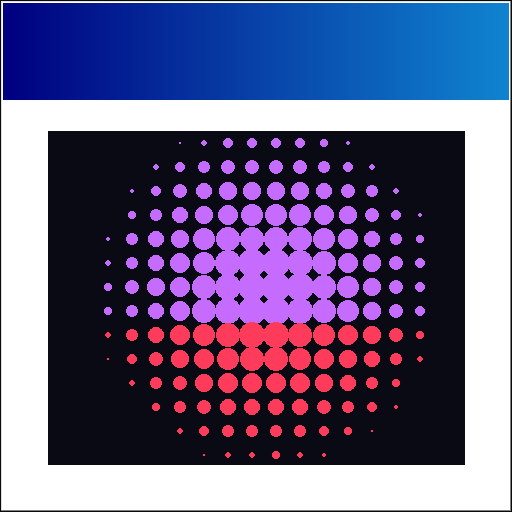
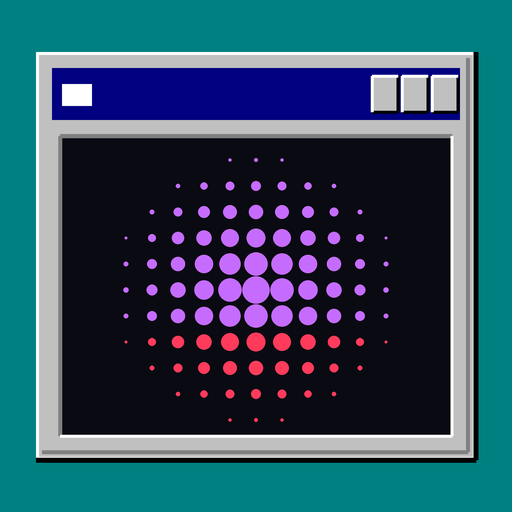
si/editoval: vzhľad Windows 95 (tyrkysová plocha, panel úloh so Štartom), Pipeta, oprava štýlu Pixel pri kresbe, nové ikony
Claude-Session: https://claude.ai/code/session_01E5N1aRXdAjbhvtAa1sCmhq

diff --git a/editoval/style.css b/editoval/style.css
@@ -1,15 +1,15 @@
-/* si/editoval 2 — Skicár z Windows 98, ale celý biely. Jediné farebné na stránke je obrázok.
-   Okná a tlačidlá majú klasické 3D hrany (svetlá hore vľavo, tieň dole vpravo). */
+/* si/editoval — Skicár ako z Windows 95: tyrkysová plocha, sivé okná, plná tmavomodrá lišta, panel úloh so Štartom.
+   Okná a tlačidlá majú klasické 3D hrany (svetlá hore vľavo, tieň dole vpravo). Obrázok je jediná biela vec v sivom okne. */
 :root{
   color-scheme:light;
-  --hi:#fff;--lt:#dfdfdf;--sh:#808080;--dk:#0a0a0a;--navy:#000080;
-  --ui:Tahoma,Verdana,"Segoe UI",Geneva,sans-serif;
-  --raised:inset -1px -1px var(--dk),inset 1px 1px var(--lt),inset -2px -2px var(--sh),inset 2px 2px var(--hi);
+  --face:#c0c0c0;--hi:#fff;--lt:#dfdfdf;--sh:#808080;--dk:#000;--navy:#000080;--teal:#008080;
+  --ui:"MS Sans Serif","Microsoft Sans Serif",Tahoma,Verdana,"Segoe UI",Geneva,sans-serif;
+  --raised:inset -1px -1px var(--dk),inset 1px 1px var(--hi),inset -2px -2px var(--sh),inset 2px 2px var(--lt);
   --sunken:inset -1px -1px var(--hi),inset 1px 1px var(--sh),inset -2px -2px var(--lt),inset 2px 2px var(--dk);
 }
 *{box-sizing:border-box}
 [hidden]{display:none!important}
-html,body{background:#fff}
+html,body{background:var(--teal)}
 body{margin:0;color:#000;font:13px/1.35 var(--ui);-webkit-text-size-adjust:100%;-webkit-tap-highlight-color:transparent}
 button,input,textarea,select,label{font:inherit;color:inherit}
 button{cursor:default}
@@ -17,22 +17,22 @@ a{color:var(--navy)}
 .vh{position:absolute;width:1px;height:1px;opacity:0;pointer-events:none}
 
 .desk{max-width:1200px;margin:0 auto;display:grid;gap:14px;
-  padding:calc(8px + env(safe-area-inset-top,0px)) max(8px,env(safe-area-inset-right,0px)) calc(18px + env(safe-area-inset-bottom,0px)) max(8px,env(safe-area-inset-left,0px))}
+  padding:calc(8px + env(safe-area-inset-top,0px)) max(8px,env(safe-area-inset-right,0px)) calc(54px + env(safe-area-inset-bottom,0px)) max(8px,env(safe-area-inset-left,0px))}
 
 /* okná */
-.win{background:#fff;box-shadow:var(--raised);padding:3px;min-width:0}
-.title{background:linear-gradient(90deg,#000080,#1084d0);color:#fff;font-weight:700;display:flex;align-items:center;justify-content:space-between;gap:8px;min-height:24px;padding:2px 3px 2px 5px;user-select:none;-webkit-user-select:none}
+.win{background:var(--face);box-shadow:var(--raised);padding:3px;min-width:0}
+.title{background:var(--navy);color:#fff;font-weight:700;display:flex;align-items:center;justify-content:space-between;gap:8px;min-height:24px;padding:2px 3px 2px 5px;user-select:none;-webkit-user-select:none}
 .title.sm{min-height:20px;font-size:12px}
 .ti{display:flex;align-items:center;gap:6px;min-width:0;white-space:nowrap;overflow:hidden;text-overflow:ellipsis}
 .ctl{display:flex;gap:2px;flex:none}
-.ctl span,.ctl button{width:18px;height:16px;background:#fff;box-shadow:var(--raised);display:grid;place-items:center;color:#000;font:700 11px/1 var(--ui);border:0;padding:0}
+.ctl span,.ctl button{width:18px;height:16px;background:var(--face);box-shadow:var(--raised);display:grid;place-items:center;color:#000;font:700 11px/1 var(--ui);border:0;padding:0}
 .ctl span+span:last-child{margin-left:2px}
 
 /* menu */
 .menubar{display:flex;padding:2px 0 1px}
 .menubar button{background:none;border:0;padding:5px 9px;min-height:30px}
 .menubar button:hover,.menubar button[aria-expanded="true"]{background:var(--navy);color:#fff}
-.menu{position:fixed;z-index:70;background:#fff;box-shadow:var(--raised),2px 2px 0 rgba(0,0,0,.35);padding:3px;min-width:230px}
+.menu{position:fixed;z-index:70;background:var(--face);box-shadow:var(--raised),2px 2px 0 rgba(0,0,0,.45);padding:3px;min-width:230px;max-width:calc(100vw - 8px);max-height:calc(100dvh - 56px);overflow:auto}
 .menu button{display:flex;justify-content:space-between;gap:24px;width:100%;text-align:left;background:none;border:0;padding:7px 10px 7px 24px;min-height:32px;position:relative}
 .menu button:hover,.menu button:focus-visible{background:var(--navy);color:#fff;outline:0}
 .menu button[aria-checked="true"]::before{content:"✓";position:absolute;left:8px}
@@ -40,18 +40,18 @@ a{color:var(--navy)}
 .menu hr{border:0;border-top:1px solid var(--sh);border-bottom:1px solid #fff;margin:3px 2px}
 
 /* nástroje */
-.toolbar{display:flex;gap:3px;padding:4px 2px;border-top:1px solid var(--lt)}
-.tool{flex:1 1 0;min-width:0;display:grid;justify-items:center;gap:2px;background:#fff;border:0;box-shadow:var(--raised);padding:6px 2px 5px;font-size:11px;user-select:none;-webkit-user-select:none}
+.toolbar{display:flex;gap:3px;padding:4px 2px;border-top:1px solid var(--sh);box-shadow:inset 0 1px #fff}
+.tool{flex:1 1 0;min-width:0;display:grid;justify-items:center;gap:2px;background:var(--face);border:0;box-shadow:var(--raised);padding:6px 2px 5px;font-size:11px;user-select:none;-webkit-user-select:none}
 .tool svg{width:26px;height:26px}
 .tool:active,.tool[aria-pressed="true"]{box-shadow:var(--sunken)}
-.tool[aria-pressed="true"]{background:repeating-conic-gradient(#fff 0 25%,#dcdcdc 0 50%) 0 0/2px 2px;font-weight:700}
+.tool[aria-pressed="true"]{background:repeating-conic-gradient(#fff 0 25%,var(--face) 0 50%) 0 0/2px 2px;font-weight:700}
 .tool:focus-visible,.btn:focus-visible,.fmt:focus-visible{outline:1px dotted #000;outline-offset:-5px}
 
 .formats{display:flex;gap:3px;overflow-x:auto;padding:2px 2px 6px;scrollbar-width:thin;-webkit-overflow-scrolling:touch}
-.fmt{flex:none;display:flex;align-items:center;gap:7px;background:#fff;border:0;box-shadow:var(--raised);padding:5px 10px 5px 8px;min-height:40px;text-align:left}
+.fmt{flex:none;display:flex;align-items:center;gap:7px;background:var(--face);border:0;box-shadow:var(--raised);padding:5px 10px 5px 8px;min-height:40px;text-align:left}
 .fmt i{display:block;border:1.5px solid #000;background:#fff;flex:none}
 .fmt b{display:block;font-size:12.5px}
-.fmt small{display:block;font-size:10.5px;color:#444;white-space:nowrap}
+.fmt small{display:block;font-size:10.5px;color:#303030;white-space:nowrap}
 .fmt[aria-checked="true"]{box-shadow:var(--sunken)}
 .fmt[aria-checked="true"] i{background:var(--navy)}
 
@@ -59,8 +59,9 @@ a{color:var(--navy)}
 .work{display:grid;gap:10px;align-items:start}
 @media (min-width:900px){.work{grid-template-columns:minmax(0,1fr) 360px}}
 .left{display:grid;gap:6px;min-width:0}
-.area{box-shadow:var(--sunken);background:#fff;padding:20px 18px 22px;display:grid;place-items:center;min-height:280px;overflow:hidden}
-.paper{position:relative;line-height:0;box-shadow:5px 5px 0 #000;outline:1px solid #000}
+.area{box-shadow:var(--sunken);background:var(--sh);padding:20px 18px 22px;display:grid;place-items:center;min-height:280px;overflow:hidden}
+.paper{position:relative;line-height:0;box-shadow:3px 3px 0 rgba(0,0,0,.45);outline:1px solid #000}
+.paper.pick #ov{cursor:crosshair}
 .paper #cv{display:block;max-width:100%;width:auto;height:auto;max-height:min(66vh,760px)}
 @media (min-width:900px){.paper #cv{max-height:calc(100vh - 290px)}}
 .paper #ov{position:absolute;inset:0;width:100%;height:100%;touch-action:none;cursor:move}
@@ -70,7 +71,7 @@ a{color:var(--navy)}
 
 /* paleta ako v Skicári */
 .palette{display:flex;gap:6px;align-items:center;padding:2px}
-.cur{width:38px;height:38px;flex:none;box-shadow:var(--sunken);padding:6px;background:#fff}
+.cur{width:38px;height:38px;flex:none;box-shadow:var(--sunken);padding:6px;background:var(--face)}
 .cur i{display:block;width:100%;height:100%;border:1px solid #000}
 .cells{flex:1;min-width:0;display:grid;grid-template-columns:repeat(14,minmax(0,1fr));gap:2px}
 .cells button{aspect-ratio:1;min-width:0;border:0;padding:0;box-shadow:var(--sunken)}
@@ -88,13 +89,13 @@ a{color:var(--navy)}
 .layers li input{flex:none}
 .lbtns{display:grid;grid-template-columns:repeat(4,1fr);gap:3px;margin-top:6px}
 
-.btn{background:#fff;border:0;box-shadow:var(--raised);min-height:34px;padding:3px 10px;font-size:12px;user-select:none;-webkit-user-select:none}
+.btn{background:var(--face);border:0;box-shadow:var(--raised);min-height:34px;padding:3px 10px;font-size:12px;user-select:none;-webkit-user-select:none}
 .btn:active,.btn[aria-pressed="true"]{box-shadow:var(--sunken)}
-.btn[aria-pressed="true"]{font-weight:700;background:repeating-conic-gradient(#fff 0 25%,#e4e4e4 0 50%) 0 0/2px 2px}
+.btn[aria-pressed="true"]{font-weight:700;background:repeating-conic-gradient(#fff 0 25%,var(--face) 0 50%) 0 0/2px 2px}
 .btn:disabled{color:var(--sh);text-shadow:1px 1px #fff}
 .btn.pri{box-shadow:var(--raised),0 0 0 1px #000;font-weight:700}
 
-fieldset.grp{border:1px solid var(--sh);box-shadow:inset 1px 1px #fff,1px 1px #fff;margin:6px 0 10px;padding:8px 8px 6px;min-width:0}
+fieldset.grp{border:1px solid var(--sh);box-shadow:inset 1px 1px #fff,1px 1px #fff;border-radius:0;margin:6px 0 10px;padding:8px 8px 6px;min-width:0}
 fieldset.grp legend{padding:0 4px}
 .row{display:grid;grid-template-columns:minmax(0,1fr) auto;gap:0 8px;align-items:center;margin:4px 0 6px}
 .row>label,.row>.lbl{min-width:0}
@@ -104,10 +105,10 @@ fieldset.grp legend{padding:0 4px}
 .chips .btn{min-height:32px;padding:3px 9px}
 .sw{display:inline-flex;height:14px;border:1px solid #000;vertical-align:-2px;margin-right:5px}
 .sw b{display:block;width:9px;height:100%}
-.hint{margin:4px 0 6px;color:#333;font-size:12px}
+.hint{margin:4px 0 6px;color:#202020;font-size:12px}
 .colors{display:flex;gap:10px;flex-wrap:wrap;margin-top:4px}
 .colors label{display:inline-flex;align-items:center;gap:5px;font-size:12px}
-.colors input{width:36px;height:30px;border:0;padding:2px;box-shadow:var(--sunken);background:#fff}
+.colors input{width:36px;height:30px;border:0;padding:2px;box-shadow:var(--sunken);background:var(--face)}
 
 textarea,input[type=text]{width:100%;border:0;box-shadow:var(--sunken);background:#fff;padding:7px 8px;font-size:16px;border-radius:0;-webkit-appearance:none;appearance:none}
 textarea{resize:vertical;min-height:60px}
@@ -118,16 +119,16 @@ textarea:focus,input[type=text]:focus{outline:1px dotted #000;outline-offset:-4p
 .fonts .btn span{font-size:21px;line-height:1.05;white-space:nowrap}
 .fonts .btn small{font:10px var(--ui);white-space:nowrap}
 
-/* posuvník Win98 */
+/* posuvník */
 input[type=range]{-webkit-appearance:none;appearance:none;width:100%;height:30px;margin:0;background:transparent}
 input[type=range]::-webkit-slider-runnable-track{height:4px;background:#fff;box-shadow:var(--sunken)}
-input[type=range]::-webkit-slider-thumb{-webkit-appearance:none;width:13px;height:24px;margin-top:-10px;background:#fff;box-shadow:var(--raised);border:0;border-radius:0}
+input[type=range]::-webkit-slider-thumb{-webkit-appearance:none;width:13px;height:24px;margin-top:-10px;background:var(--face);box-shadow:var(--raised);border:0;border-radius:0}
 input[type=range]::-moz-range-track{height:4px;background:#fff;box-shadow:var(--sunken)}
-input[type=range]::-moz-range-thumb{width:13px;height:24px;background:#fff;box-shadow:var(--raised);border:0;border-radius:0}
+input[type=range]::-moz-range-thumb{width:13px;height:24px;background:var(--face);box-shadow:var(--raised);border:0;border-radius:0}
 input[type=range]:focus{outline:0}
 input[type=range]:focus-visible::-webkit-slider-thumb{outline:1px dotted #000;outline-offset:-4px}
 
-/* zaškrtávacie políčko Win98 */
+/* zaškrtávacie políčko */
 input[type=checkbox]{-webkit-appearance:none;appearance:none;width:15px;height:15px;margin:0;background:#fff;box-shadow:var(--sunken);display:inline-grid;place-items:center;flex:none}
 input[type=checkbox]:checked::after{content:"";width:7px;height:4px;border-left:2px solid #000;border-bottom:2px solid #000;transform:translateY(-1px) rotate(-45deg)}
 .layers li.on input[type=checkbox]{outline:1px solid #fff}
@@ -145,18 +146,20 @@ input[type=checkbox]:checked::after{content:"";width:7px;height:4px;border-left:
 .big{font-size:14px;margin-bottom:6px!important}
 .stars{color:#e8232a;letter-spacing:.45em;font-size:13px;margin:6px 0}
 .cr{display:grid;margin:8px 0!important;text-transform:lowercase}
-.cr span{font-size:10.5px;letter-spacing:.12em;color:#555}
+.cr span{font-size:10.5px;letter-spacing:.12em;color:#404040}
 .cr a{font:800 19px/1.2 Syne,var(--ui);color:#000;text-decoration:none}
 .cr em{font:700 12px/1 "JetBrains Mono",monospace;font-style:normal;color:#e8232a}
-.cr small{color:#555;font-size:12px}
+.cr small{color:#404040;font-size:12px}
 .about hr{border:0;border-top:1px solid var(--sh);border-bottom:1px solid #fff;margin:10px 0}
 .lic{font-size:12px}
-.note{font-size:12px;color:#555;margin-top:8px!important}
-.foot{text-align:center;font-size:12px;margin:0;color:#555}
+.note{font-size:12px;color:#303030;margin-top:8px!important}
+.about .title{background:var(--sh);color:var(--face)}
+.foot{text-align:center;font-size:12px;margin:0;color:#fff}
+.foot a{color:#fff}
 
 /* dialóg */
-.modal{position:fixed;inset:0;z-index:80;display:grid;place-items:center;padding:16px;background:rgba(255,255,255,.6)}
-.dlg{width:min(480px,100%);max-height:calc(100dvh - 32px);display:grid;grid-template-rows:auto minmax(0,1fr) auto;box-shadow:var(--raised),3px 3px 0 rgba(0,0,0,.4)}
+.modal{position:fixed;inset:0;z-index:80;display:grid;place-items:center;padding:16px;padding-bottom:56px;background:rgba(0,0,0,.28)}
+.dlg{width:min(480px,100%);max-height:calc(100dvh - 80px);display:grid;grid-template-rows:auto minmax(0,1fr) auto;box-shadow:var(--raised),3px 3px 0 rgba(0,0,0,.4)}
 .dbody{padding:12px;overflow:auto;min-height:0}
 .dbody img.res{display:block;max-width:100%;max-height:52vh;margin:0 auto 10px;box-shadow:4px 4px 0 #000;outline:1px solid #000;background:repeating-conic-gradient(#fff 0 25%,#e6e6e6 0 50%) 0 0/16px 16px}
 .dbody p{margin:6px 0}
@@ -176,3 +179,13 @@ body.wait,body.wait *{cursor:wait!important}
 .bgrid{display:grid;grid-template-columns:repeat(4,1fr);gap:4px;margin:8px 0}
 .bgrid img{width:100%;aspect-ratio:1;object-fit:cover;border:1px solid var(--sh);display:block}
 @media (max-width:520px){.bgrid{grid-template-columns:repeat(3,1fr)}}
+
+/* panel úloh ako v Windows 95 */
+.taskbar{position:fixed;left:0;right:0;bottom:0;z-index:60;display:flex;align-items:center;gap:4px;background:var(--face);box-shadow:inset 0 1px var(--lt),inset 0 2px var(--hi);padding:4px 4px calc(3px + env(safe-area-inset-bottom,0px));min-height:calc(38px + env(safe-area-inset-bottom,0px))}
+.start{display:flex;align-items:center;gap:6px;background:var(--face);border:0;box-shadow:var(--raised);padding:3px 10px 3px 7px;min-height:30px;font-weight:700;user-select:none;-webkit-user-select:none}
+.start svg{width:20px;height:18px}
+.start:active,.start[aria-expanded="true"]{box-shadow:var(--sunken)}
+.tsep{width:2px;align-self:stretch;margin:2px 1px;box-shadow:inset 1px 0 var(--sh),inset -1px 0 #fff}
+.task{flex:1;min-width:0;max-width:240px;display:flex;align-items:center;gap:6px;min-height:30px;padding:3px 8px;box-shadow:var(--sunken);background:repeating-conic-gradient(#fff 0 25%,var(--face) 0 50%) 0 0/2px 2px;font-weight:700;white-space:nowrap;overflow:hidden;text-overflow:ellipsis}
+.tray{margin-left:auto;box-shadow:inset 1px 1px var(--sh),inset -1px -1px #fff;padding:6px 10px;font-size:12px;white-space:nowrap}
+@media (max-width:420px){.task{display:none}}

diff --git a/editoval/app.js b/editoval/app.js
@@ -668,7 +668,9 @@ function sizeOf(L){return L.type==='image'?L.s:L.size;}
 function setSize(L,v){if(L.type==='image'){L.s=clamp(v,.03,6);L.fit=null;}else L.size=clamp(v,6,900);}
 function mirrors(q){var o=[q],s=selLayer().sym;if(s==='v'||s==='vh')o.push([1-q[0],q[1]]);if(s==='h'||s==='vh')o.push([q[0],1-q[1]]);if(s==='vh')o.push([1-q[0],1-q[1]]);return o;}
 ov.addEventListener('pointerdown',function(e){
-  e.preventDefault();closeMenu();try{ov.setPointerCapture(e.pointerId);}catch(x){}
+  e.preventDefault();closeMenu();
+  if(S.pick){pickAt(ptr(e));return;}
+  try{ov.setPointerCapture(e.pointerId);}catch(x){}
   var p=ptr(e);PT[e.pointerId]=p;var ids=Object.keys(PT),L=selLayer();
   if(ids.length===2&&L&&L.type!=='draw'&&(!G||G.t!=='draw')){var a=PT[ids[0]],b=PT[ids[1]];
     G={t:'pinch',L:L,d0:Math.hypot(a.x-b.x,a.y-b.y)||1,a0:Math.atan2(b.y-a.y,b.x-a.x),s0:sizeOf(L),r0:L.r,x0:L.x,y0:L.y,m0:{x:(a.x+b.x)/2,y:(a.y+b.y)/2}};S.gesture=true;return;}
@@ -693,6 +695,15 @@ ov.addEventListener('pointermove',function(e){
     var ms=mirrors([p.x/W,p.y/H]);G.st.forEach(function(st,i){ms[i].push(Math.round(G.w*100)/100);st.pts.push(ms[i]);});liveStroke();return;}
   dirty();
 });
+/* pipeta: farba z miesta, kam klikneš, sa použije ako aktuálna farba */
+function pickAt(p){
+  S.pick=false;toolState();
+  var x=clamp(Math.round(p.x),0,cv.width-1),y=clamp(Math.round(p.y),0,cv.height-1),d=cx.getImageData(x,y,1,1).data;
+  if(d[3]<8){msg('Tu je priehľadno, farba sa nedá vybrať.');return;}
+  var h='#'+[d[0],d[1],d[2]].map(function(v){return ('0'+v.toString(16)).slice(-2);}).join('');
+  applyColor(h);msg('Pipeta vybrala farbu '+h+'.');
+}
+$('#tPick').onclick=function(){S.pick=!S.pick;if(S.pick&&S.tool==='brush'){S.tool='move';}toolState();status();if(S.pick)msg('Pipeta: klikni na obrázok, odkiaľ chceš farbu.');};
 function snapR(r){r=((r+180)%360+360)%360-180;for(var a=-180;a<=180;a+=45)if(Math.abs(r-a)<3)return a===-180?180:a;return Math.round(r*10)/10;}
 function endPtr(e){
   delete PT[e.pointerId];if(!G)return;
@@ -729,7 +740,7 @@ function addText(){
   var ta=$('#props textarea');if(ta){ta.focus();ta.select();}
 }
 function brushLayer(){
-  var L=selLayer();
+  S.pick=false;var L=selLayer();
   if(S.tool==='brush'){S.tool='move';select('bg');return;}
   if(!L||L.type!=='draw'){L=null;for(var i=D.layers.length-1;i>=0;i--)if(D.layers[i].type==='draw'){L=D.layers[i];break;}}
   if(!L){var hasImg=D.layers.some(function(l){return l.type==='image'&&!l.hidden;});
@@ -745,7 +756,7 @@ function moveLayer(dir){var L=selLayer();if(!L)return;var i=D.layers.indexOf(L),
 function dupLayer(){var L=selLayer();if(!L)return;var c=JSON.parse(JSON.stringify(L,function(k,v){return k.charAt(0)==='_'?undefined:v;}));c.id=nid();c.sample=false;c.name=L.name+' (kópia)';if(c.x!=null){c.x+=.03;c.y+=.03;}D.layers.splice(D.layers.indexOf(L)+1,0,c);select(c.id);commit();}
 function delLayer(){var L=selLayer();if(!L)return;D.layers.splice(D.layers.indexOf(L),1);select('bg');commit();msg('Vrstva zmazaná. Späť ju vráti.');}
 function layerName(L){
-  if(L.type==='text')return '„'+(String(L.text).replace(/\n/g,' ').slice(0,22)||' ')+'“'+(L.style!=='plain'?' · '+STYLEN[L.style]:'');
+  if(L.type==='text'){var tx=String(L.text).replace(/\n/g,' ').trim();if(tx.length>22)tx=tx.slice(0,21).trim()+'…';return '„'+(tx||' ')+'“'+(L.style!=='plain'?' · '+STYLEN[L.style]:'');}
   if(L.type==='draw')return (L.name||'Kresba')+' · '+(L.mode==='relief'?'reliéf':'farba');
   return L.name+(L.fx!=='none'?' · '+FXN[L.fx]:'');
 }
@@ -963,12 +974,12 @@ var STYLES=[
   {id:'chrome',n:'Chróm v tme',bg:{kind:'navy'},fin:{grain:48,gsize:1.2,gcol:true},rp:{mat:'chrome',evol:92,eslope:32,eshine:92,erough:10,egoo:40,idrip:35,edeb:false,ionly:true}},
   {id:'sand',n:'Vyryté do piesku',bg:{kind:'sand'},fin:{grain:30,gsize:1,scr:30,dust:25,scol:'dark'},rp:{mat:'sand',evol:100,eslope:14,eshine:55,erough:20,egoo:5,idrip:0,edeb:true,ionly:true}},
   {id:'paper',n:'Papier a modrá farba',bg:{kind:'cream'},fin:{grain:14,gsize:1},rp:{mat:'paper',evol:62,eslope:55,eshine:25,erough:6,egoo:35,idrip:25,edeb:false,ionly:true},draw:{mode:'paint',color:'#3f7fe8',liquid:90}},
-  {id:'pixel',n:'Pixel a prach',bg:{kind:'color',color:'#ece5cf'},fin:{dis:26,dmode:'edges',dsz:7,dcol:'#1a1710',scr:38,dust:30,scol:'dark'},img:{fx:'dither',p:{dstyle:'pixel',dscale:6,pal:'cream',dthr:0}},txt:{style:'plain',color:'#15120e'}},
+  {id:'pixel',n:'Pixel a prach',bg:{kind:'color',color:'#ece5cf'},fin:{dis:26,dmode:'edges',dsz:7,dcol:'#1a1710',scr:38,dust:30,scol:'dark'},img:{fx:'dither',p:{dstyle:'pixel',dscale:6,pal:'cream',dthr:0}},txt:{style:'plain',color:'#15120e'},draw:{mode:'paint',color:'#15120e',liquid:35}},
   {id:'gold',n:'Zlatá platňa so skrutkami',bg:{kind:'gold'},fin:{riv:'4',rsz:22,dis:38,dmode:'tl',dsz:6,dcol:'#2a2210',grain:18,gsize:1},rp:{mat:'gold',evol:95,eslope:18,eshine:85,erough:6,egoo:10,idrip:0,edeb:true,ionly:true}},
   {id:'goo',n:'Tekutý lak na tmavej',bg:{kind:'navy'},fin:{grain:55,gsize:1.1,gcol:true},rp:{mat:'black',evol:100,eslope:42,eshine:100,erough:4,egoo:58,idrip:60,edeb:false,ionly:true}}
 ];
 function applyStyle(st){
-  var sel=selLayer(),targets=(sel?[sel]:D.layers).filter(function(L){return !L.sample;}),cl=function(o){return JSON.parse(JSON.stringify(o));};
+  var sel=selLayer(),targets=(sel?[sel]:D.layers).filter(function(L){return !L.sample;}),cl=function(o){return JSON.parse(JSON.stringify(o||{}));};
   D.bg=cl(st.bg);D.fin=Object.assign(defFin(),cl(st.fin||{}));
   targets.forEach(function(L){
     if(L.type==='image'){if(st.img){L.fx=st.img.fx;Object.assign(L.p,cl(st.img.p));}else{L.fx='ink';Object.assign(L.p,cl(st.rp));}L._c=null;}
@@ -1037,10 +1048,10 @@ function setFormat(id){
 }
 
 /* ================= nástroje ================= */
-function toolState(){$('#tBrush').setAttribute('aria-pressed',S.tool==='brush'?'true':'false');paperEl.classList.toggle('brush',S.tool==='brush');}
+function toolState(){$('#tBrush').setAttribute('aria-pressed',S.tool==='brush'?'true':'false');paperEl.classList.toggle('brush',S.tool==='brush');$('#tPick').setAttribute('aria-pressed',S.pick?'true':'false');paperEl.classList.toggle('pick',!!S.pick);}
 function status(){
   var f=fmtOf(),L=selLayer();
-  $('#st1').textContent=S.tool==='brush'?'Kresli prstom po obrázku. Štetec vypneš tlačidlom Štetec.':L?'Ťahaj vrstvu. Roh zväčší, krúžok otočí, dva prsty oboje.':'Pre Pomoc kliknite na Pomoc > O programe.';
+  $('#st1').textContent=S.pick?'Pipeta: klikni na obrázok, odkiaľ chceš farbu.':S.tool==='brush'?'Kresli prstom po obrázku. Štetec vypneš tlačidlom Štetec.':L?'Ťahaj vrstvu. Roh zväčší, krúžok otočí, dva prsty oboje.':'Pre Pomoc kliknite na Pomoc > O programe.';
   $('#st2').textContent=f.w+' × '+f.h+' px';
 }
 $('#tText').onclick=addText;
@@ -1120,6 +1131,7 @@ var MENUS={
   file:function(){return [['Nový obrázok',newDoc],['Otvoriť fotku…',function(){$('#file').click();}],['Tekutý text z fotky…',inkFromPhoto],['Dávka: viac fotiek naraz…',batchPick],'-',['Uložiť ako PNG',function(){save('png');},'Ctrl+S'],['Uložiť ako JPG',function(){save('jpg');}]];},
   edit:function(){return [['Späť',undo,'Ctrl+Z'],['Znova',redo,'Ctrl+Y'],'-',['Pridať text',addText],['Duplikovať vrstvu',dupLayer],['Zmazať vrstvu',delLayer,'Del']];},
   img:function(){return FORMATS.map(function(f){return [f.n+' – '+f.d,function(){setFormat(f.id);},f.w+'×'+f.h,f.id===D.fmt];}).concat(['-'],MIRCYCLE.map(function(k){return ['Zrkadlo: '+MIRN[k],function(){D.mirror=k;mirrorTool();commit();dirty();buildProps();},'',(D.mirror||'none')===k];}),['-',['Vycentrovať vrstvu',function(){var L=selLayer();if(L&&L.x!=null){L.x=.5;L.y=.5;commit();dirty();}}]]);},
+  start:function(){return [['Nový obrázok',newDoc],['Otvoriť fotku…',function(){$('#file').click();}],['Dávka: viac fotiek naraz…',batchPick],'-'].concat(STYLES.map(function(st){return ['Štýl: '+st.n,function(){applyStyle(st);}];}),['-',['Ako na to',help],['O programe si/editoval',about],'-',['durica.si',function(){location.href='../';}],['Ďalšie appky',function(){location.href='../appky/';}],['Linky',function(){location.href='../linky/';}],['Ukončiť (späť na durica.si)',function(){location.href='../';}]]);},
   styles:function(){return STYLES.map(function(st){return [st.n,function(){applyStyle(st);}];}).concat(['-',['Zrušiť dokončenie (zrno, prach, nity)',function(){D.fin=defFin();commit();buildProps();dirty();msg('Dokončenie vypnuté.');}]]);},
   help:function(){return [['Ako na to',help],['O programe si/editoval',about]];}
 };
@@ -1129,13 +1141,17 @@ function openMenu(btn){
   MENUS[btn.dataset.menu]().forEach(function(it){if(it==='-'){menu.appendChild(el('hr'));return;}
     var b=el('button','','<span>'+it[0]+'</span>'+(it[2]?'<kbd>'+it[2]+'</kbd>':''));b.type='button';b.setAttribute('role','menuitem');if(it[3])b.setAttribute('aria-checked','true');
     b.onclick=function(){closeMenu();it[1]();};menu.appendChild(b);});
-  var r=btn.getBoundingClientRect();menu.style.left=Math.min(r.left,innerWidth-240)+'px';menu.style.top=r.bottom+'px';menu.hidden=false;
+  menu.hidden=false;var r=btn.getBoundingClientRect();menu.style.left=Math.max(0,Math.min(r.left,innerWidth-menu.offsetWidth-4))+'px';
+  if(btn.dataset.up){menu.style.top='auto';menu.style.bottom=(innerHeight-r.top)+'px';}else{menu.style.bottom='auto';menu.style.top=r.bottom+'px';}
 }
 function closeMenu(){menu.hidden=true;if(menuBtn)menuBtn.setAttribute('aria-expanded','false');menuBtn=null;}
-$$('#menubar button').forEach(function(b){b.addEventListener('click',function(e){e.stopPropagation();if(menuBtn===b)closeMenu();else openMenu(b);});});
+$$('#menubar button,#startBtn').forEach(function(b){b.addEventListener('click',function(e){e.stopPropagation();if(menuBtn===b)closeMenu();else openMenu(b);});});
+/* hodiny v paneli úloh */
+function tick(){var d=new Date(),el=$('#clock');if(el)el.textContent=('0'+d.getHours()).slice(-2)+':'+('0'+d.getMinutes()).slice(-2);}
+tick();setInterval(tick,15000);
 document.addEventListener('click',function(e){if(!menu.hidden&&!menu.contains(e.target))closeMenu();});
 function about(){dialog('O programe si/editoval',$('#about .abody').outerHTML,[['OK',closeDlg,true]]);}
-function help(){dialog('Ako na to','<p><b>1.</b> Hore vyber formát (4:5 post, 9:16 story…).</p><p><b>2.</b> <b>Fotka</b> pridá obrázok ako novú vrstvu. Prvá fotka nahradí ukážku.</p><p><b>3.</b> Vpravo (na mobile nižšie) vyber efekt: Dither, ASCII, Look alebo Kov.</p><p><b>4.</b> <b>Text</b> pridá nápis. Vyber písmo a štýl, farbu klikni v palete.</p><p><b>5.</b> <b>Štetec</b> kreslí tekutý ťah: pomaly = hrubšie, robí kvapky a stekanie. Tekutosť nastavíš posuvníkom.</p><p><b>Tip:</b> Súbor → Tekutý text z fotky. Daj tam svoj post s bielym pozadím a textom a písmo sa zmení na tekutý kov.</p><p><b>6.</b> Vrstvy ťahaj prstom, roh zväčšuje, krúžok otáča. Poradie meníš v okne Vrstvy.</p><p><b>7.</b> Menu <b>Štýly</b>: jedným klikom hotový vzhľad (chróm, piesok, papier, pixel, zlato). Na pozadí nájdeš aj <b>Dokončenie</b>: zrno, prach, škrabance, rozpad okrajov a nity.</p><p><b>8.</b> Súbor → <b>Dávka</b>: nastav jednu fotku a efekt, potom vyber viac fotiek naraz. Dostaneš celý karusel v jednom štýle.</p><p><b>9.</b> Disketa = Uložiť.</p>');}
+function help(){dialog('Ako na to','<p><b>1.</b> Hore vyber formát (4:5 post, 9:16 story…).</p><p><b>2.</b> <b>Fotka</b> pridá obrázok ako novú vrstvu. Prvá fotka nahradí ukážku.</p><p><b>3.</b> Vpravo (na mobile nižšie) vyber efekt: Dither, ASCII, Look alebo Kov.</p><p><b>4.</b> <b>Text</b> pridá nápis. Vyber písmo a štýl, farbu klikni v palete.</p><p><b>5.</b> <b>Štetec</b> kreslí tekutý ťah: pomaly = hrubšie, robí kvapky a stekanie. Tekutosť nastavíš posuvníkom.</p><p><b>Tip:</b> Súbor → Tekutý text z fotky. Daj tam svoj post s bielym pozadím a textom a písmo sa zmení na tekutý kov.</p><p><b>6.</b> Vrstvy ťahaj prstom, roh zväčšuje, krúžok otáča. Poradie meníš v okne Vrstvy.</p><p><b>7.</b> Menu <b>Štýly</b>: jedným klikom hotový vzhľad (chróm, piesok, papier, pixel, zlato). Na pozadí nájdeš aj <b>Dokončenie</b>: zrno, prach, škrabance, rozpad okrajov a nity.</p><p><b>8.</b> Súbor → <b>Dávka</b>: nastav jednu fotku a efekt, potom vyber viac fotiek naraz. Dostaneš celý karusel v jednom štýle.</p><p><b>9.</b> <b>Pipeta</b> vyberie farbu priamo z obrázka. <b>Štart</b> dole vľavo otvorí rýchle menu.</p><p><b>10.</b> Disketa = Uložiť.</p>');}
 function mirrorTool(){var on=D.mirror&&D.mirror!=='none';$('#tMirror').setAttribute('aria-pressed',on?'true':'false');}
 $('#tMirror').onclick=function(){var i=MIRCYCLE.indexOf(D.mirror||'none');D.mirror=MIRCYCLE[(i+1)%MIRCYCLE.length];mirrorTool();commit();dirty();if(!selLayer())buildProps();msg('Zrkadlo: '+MIRN[D.mirror]+'. Klikni znova pre ďalší režim.');};
 function mirrorCopy(L){var c=JSON.parse(JSON.stringify(L,function(k,v){return k.charAt(0)==='_'?undefined:v;}));c.id=nid();c.sample=false;c.name=L.name+' (zrkadlo)';c.fh=!L.fh;c.x=1-L.x;c.r=-L.r;
@@ -1147,7 +1163,7 @@ function newDoc(){D.layers=[];D.bg={kind:'color',color:'#ffffff'};D.fin=defFin()
 document.addEventListener('keydown',function(e){
   var t=e.target,typing=t&&(t.tagName==='INPUT'&&t.type==='text'||t.tagName==='TEXTAREA');
   var mod=e.ctrlKey||e.metaKey;
-  if(e.key==='Escape'){closeMenu();closeDlg();return;}
+  if(e.key==='Escape'){closeMenu();closeDlg();if(S.pick){S.pick=false;toolState();status();}return;}
   if(typing)return;
   if(mod&&e.key.toLowerCase()==='z'){e.preventDefault();if(e.shiftKey)redo();else undo();return;}
   if(mod&&e.key.toLowerCase()==='y'){e.preventDefault();redo();return;}

diff --git a/editoval/index.html b/editoval/index.html
@@ -5,10 +5,10 @@
 <meta name="viewport" content="width=device-width,initial-scale=1,viewport-fit=cover,maximum-scale=1">
 <title>si/editoval · Skicár na efekty</title>
 <meta name="description" content="Skicár na efekty: vrstvy, texty, fonty, dither, ASCII, kovový reliéf a formáty na Instagram post aj story. V prehliadači, zadarmo.">
-<meta name="theme-color" content="#000080">
+<meta name="theme-color" content="#008080">
 <meta name="apple-mobile-web-app-capable" content="yes">
 <meta name="mobile-web-app-capable" content="yes">
-<meta name="apple-mobile-web-app-status-bar-style" content="default">
+<meta name="apple-mobile-web-app-status-bar-style" content="black-translucent">
 <meta name="apple-mobile-web-app-title" content="si/editoval">
 <link rel="manifest" href="manifest.webmanifest">
 <link rel="icon" href="ikony/icon-192.png" type="image/png">
@@ -54,13 +54,17 @@
         <svg viewBox="0 0 16 16" aria-hidden="true"><path d="M14 1.5l1 1-7 7.5-1.6-1.4z" fill="#804000" stroke="#000" stroke-width=".7"/><path d="M5.6 9.3l1.6 1.5c-.6 2.9-3.4 4-6 4 1.3-1 .8-4.6 4.4-5.5z" fill="#000080" stroke="#000" stroke-width=".5"/></svg>
         <span>Štetec</span>
       </button>
+      <button class="tool" id="tPick" type="button" aria-pressed="false" title="Pipeta: vyber farbu z obrázka">
+        <svg viewBox="0 0 16 16" shape-rendering="crispEdges" aria-hidden="true"><path d="M10.5 1.5l4 4-1.6 1.6-4-4z" fill="#808080" stroke="#000" stroke-width=".7"/><path d="M8.6 3.6l3.8 3.8-5.6 5.6-3.4.9.9-3.4z" fill="#fff" stroke="#000" stroke-width=".7"/><path d="M3.4 13.4l.9-3.4 2.5 2.5z" fill="#f00"/></svg>
+        <span>Pipeta</span>
+      </button>
       <button class="tool" id="tMirror" type="button" aria-pressed="false" title="Zrkadlenie celého obrázka">
         <svg viewBox="0 0 16 16" shape-rendering="crispEdges" aria-hidden="true"><path d="M7.5 2L1.5 13h6z" fill="#000080" stroke="#000" stroke-width=".7"/><path d="M8.5 2l6 11h-6z" fill="#fff" stroke="#000" stroke-width=".7"/><rect x="7.6" y="1" width=".8" height="14" fill="#f00"/></svg>
         <span>Zrkadlo</span>
       </button>
       <button class="tool" id="tRnd" type="button" title="Náhodný efekt pre vybratú vrstvu">
         <svg viewBox="0 0 16 16" shape-rendering="crispEdges" aria-hidden="true"><rect x="1.5" y="1.5" width="13" height="13" fill="#fff" stroke="#000"/><rect x="4" y="4" width="2" height="2"/><rect x="10" y="4" width="2" height="2"/><rect x="7" y="7" width="2" height="2" fill="#f00"/><rect x="4" y="10" width="2" height="2"/><rect x="10" y="10" width="2" height="2"/></svg>
-        <span>Náhodne</span>
+        <span>Náhoda</span>
       </button>
       <button class="tool" id="tUndo" type="button" title="Späť (Ctrl+Z)">
         <svg viewBox="0 0 16 16" aria-hidden="true"><path d="M5 6.5h5.5a3.2 3.2 0 010 6.4H7" fill="none" stroke="#000" stroke-width="1.8"/><path d="M1 6.5l4.5-4v8z"/></svg>
@@ -140,6 +144,13 @@
     <div class="dbody" id="dlgB"></div>
     <div class="dacts" id="dlgA"></div>
   </div>
+</div>
+
+<div class="taskbar" role="toolbar" aria-label="Panel úloh">
+  <button class="start" id="startBtn" type="button" data-menu="start" data-up="1" aria-haspopup="true" aria-expanded="false"><svg viewBox="0 0 20 18" shape-rendering="crispEdges" aria-hidden="true"><path d="M1 3l8-1.5v7.5H1z" fill="#e8232a"/><path d="M10 1.3l9-1.3v9h-9z" fill="#2bb24c"/><path d="M1 10h8v7l-8-1.5z" fill="#1c6fe8"/><path d="M10 10h9v8l-9-1.3z" fill="#f5c400"/></svg><span>Štart</span></button>
+  <span class="tsep" aria-hidden="true"></span>
+  <span class="task">si/editoval – Skicár</span>
+  <span class="tray" id="clock" aria-label="Čas"></span>
 </div>
 
 <script src="app.js"></script>

diff --git a/editoval/sw.js b/editoval/sw.js
@@ -1,5 +1,5 @@
 /* si/editoval — offline cache. Fonty idú zo siete, všetko ostatné je lokálne. */
-var C='editoval-v5',FILES=['./','./index.html','./style.css','./app.js','./manifest.webmanifest','./ikony/icon-192.png','./ikony/icon-512.png'];
+var C='editoval-v6',FILES=['./','./index.html','./style.css','./app.js','./manifest.webmanifest','./ikony/icon-192.png','./ikony/icon-512.png'];
 self.addEventListener('install',function(e){e.waitUntil(caches.open(C).then(function(c){return c.addAll(FILES);}).then(function(){return self.skipWaiting();}));});
 self.addEventListener('activate',function(e){e.waitUntil(caches.keys().then(function(ks){return Promise.all(ks.filter(function(k){return k!==C;}).map(function(k){return caches.delete(k);}));}).then(function(){return self.clients.claim();}));});
 self.addEventListener('fetch',function(e){if(e.request.method!=='GET')return;var u=new URL(e.request.url);if(u.origin!==location.origin)return;
